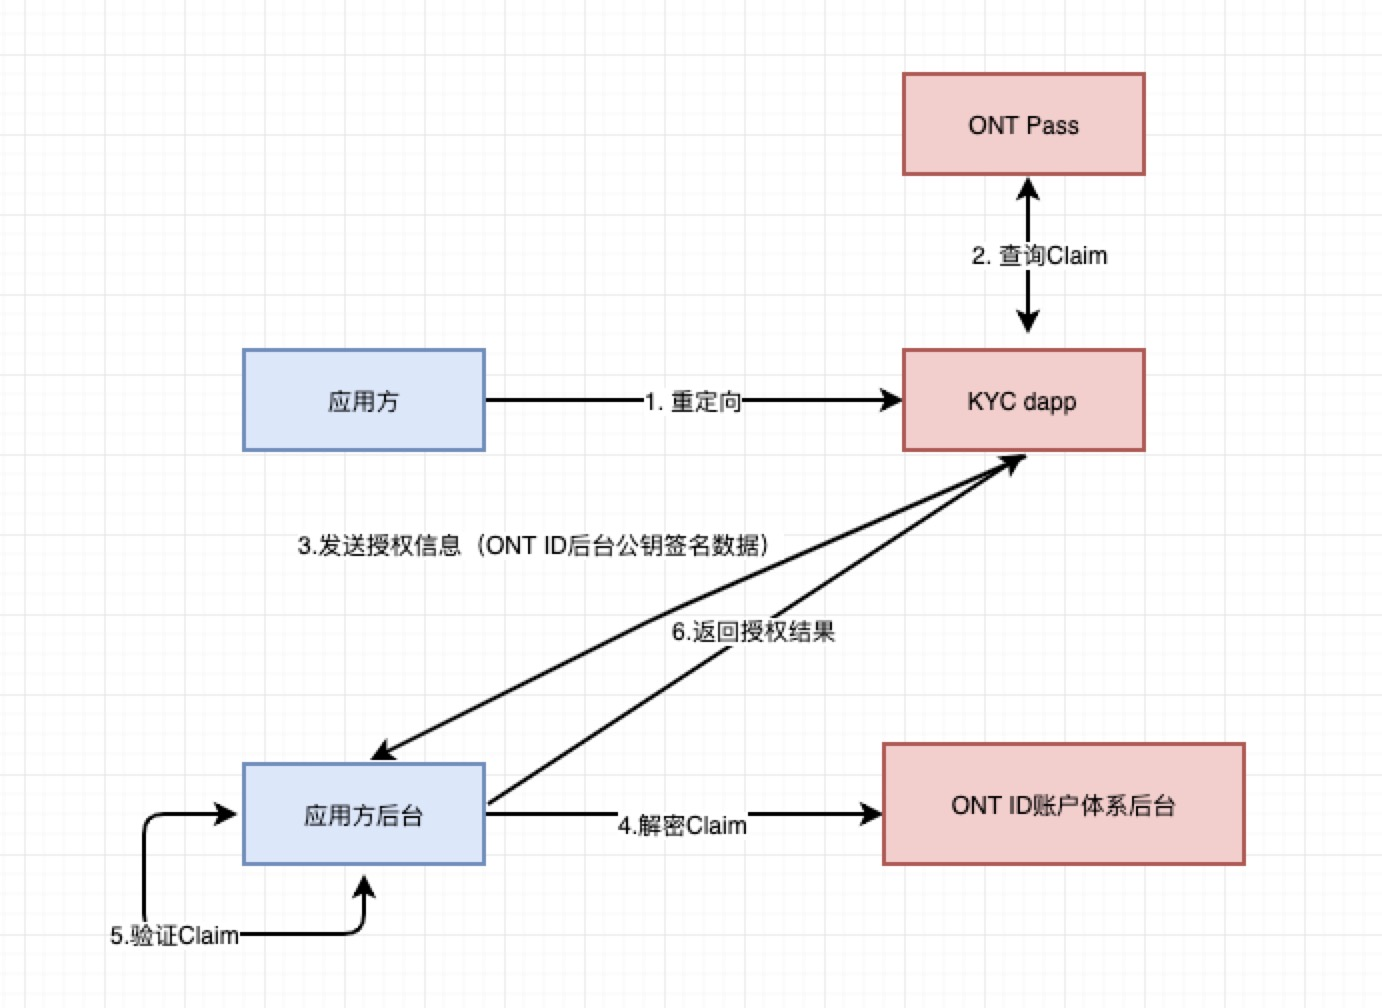
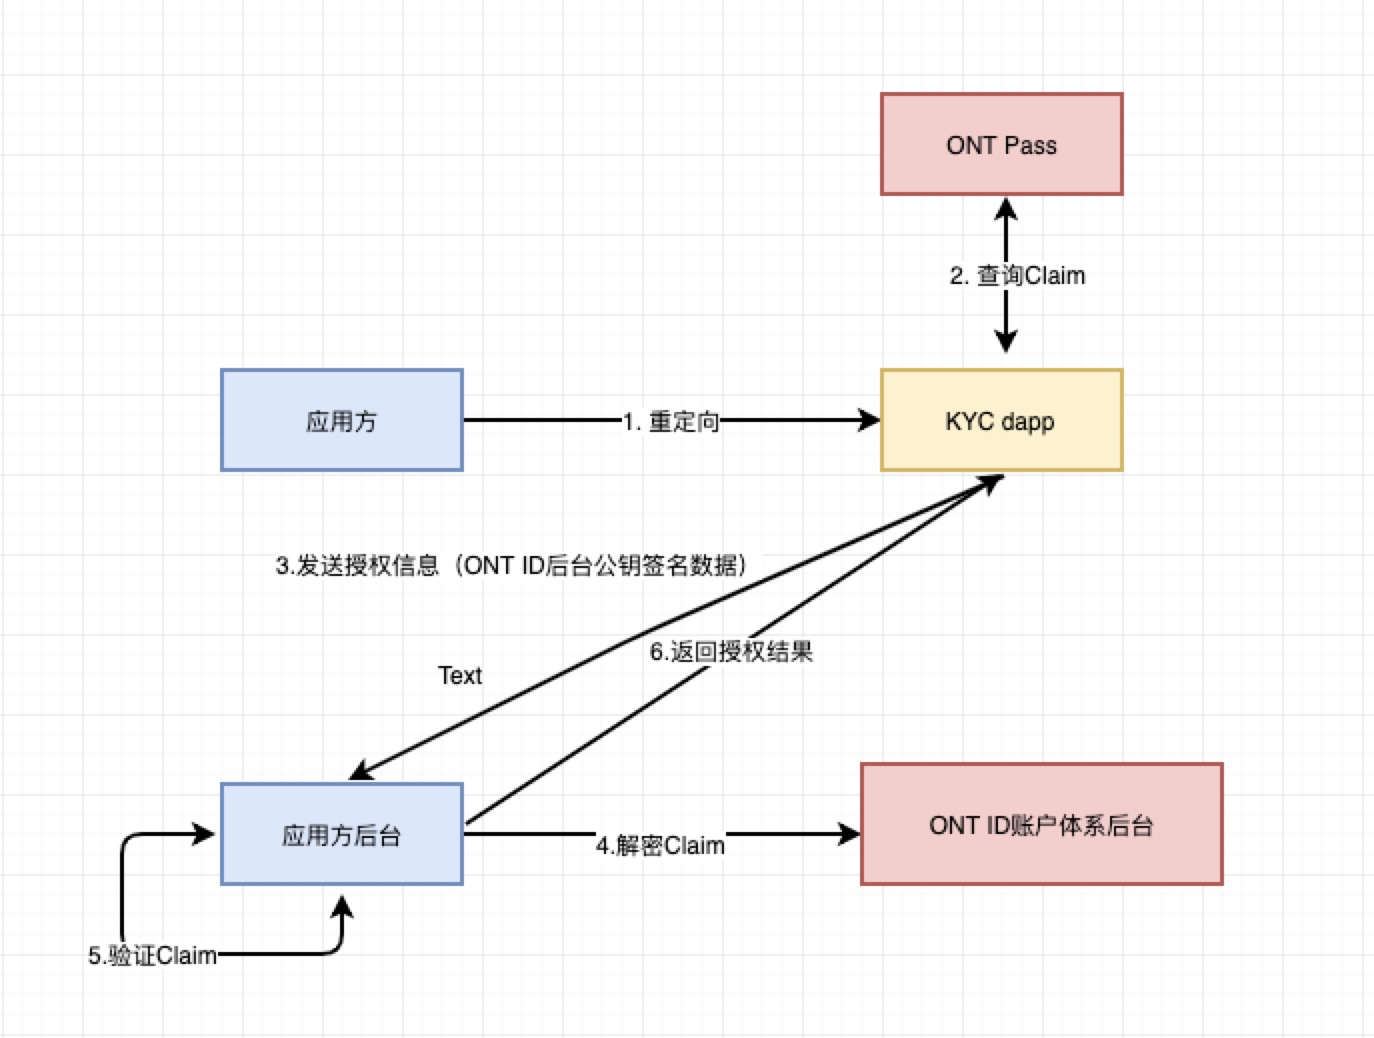
update doc ;

Changed region(s): [[0.0611, 0.0615, 0.917, 0.9534], [0.6419, 0.7073, 0.8865, 0.7381]]

diff --git a/pro-website-docs/docs-cn/ontpass/ontid-kyc-h5.md b/pro-website-docs/docs-cn/ontpass/ontid-kyc-h5.md
@@ -24,11 +24,9 @@
 
 3. KYC dapp调用ONT ID后端接口获取注册ONTID的交易，上传认证信息到ONT Pass（ONT Pass在审核通过后发送上链交易）；
 
-4. 提交[认证请求](http://pro-docs.ont.io/#/docs-cn/ontpass/overview)到ONT Pass。这个请求需要认证需求方的签名，即用户的签名，也就需要用户输入密码。KYC dapp将获取签名的请求数据，用ONT ID后台提供的公钥加密，再发送给应用方后台，应用方后台然后附加上HMAC校验，转发给ONT ID账户体系后台。
+4. 提交[认证请求](http://pro-docs.ont.io/#/docs-cn/ontpass/overview)到ONT Pass。这个请求需要认证需求方的签名，即应用方的签名。KYC dapp发送相关数据给应用方后台，应用方后台添加上自己签名后，提交认证请求到ONT Pass，返回结果给KYC dapp。
 
-5.  KYC dapp先将获取到的签名合并到请求数据中，发送给ONT Pass，触发认证请求。
-
-6. 等待审核通过（测试环境一般10分钟内）
+5.  KYC dapp显示等待审核页面。
 
    ![cert](https://raw.githubusercontent.com/ontio/documentation/master/pro-website-docs/assets/kyc/certification.jpg)
 
@@ -36,25 +34,37 @@
 
 1. 应用方在需要用户授权的地方，通过url跳转到KYC dapp h5（在url后附上参数，通过用户ONT ID查询到加密后claim），显示授权页面。
 
-2. 用户确认后，输入密码，发送授权信息到应用方后台（请求数据使用ONT ID 账户体系后台公钥加密），应用方后台转发请求数据到ONT ID后台，返回解密后的Claim。
+2. 用户确认后，输入密码，发送授权信息到应用方后台（请求数据使用ONT ID 账户体系后台公钥加密），应用方后台转发请求数据到ONT ID后台，得到解密后的Claim。
 
-3. 应用方验证Cliam。返回给KYC dapp验证结果，即授权结果。
+3. 应用方验证Claim，然后把验证结果，即授权结果，返回给KYC dapp，KYC dapp根据授权结果显示认证成功或失败。
 
    ![auth](https://raw.githubusercontent.com/ontio/documentation/master/pro-website-docs/assets/kyc/auth.jpg)
 
 
 ## 3. 应用方对接所需接口和链接
 
+> KYC dapp url后可附带参数控制多语言，默认语言是英文。
+>
+> lang=en 语言为英文
+>
+> lang=zh 语言为中文
+
 ### 3.1 跳转到KYC dapp认证页面
 
 ```
-url：host + /#/certHome?ontid={user's ONT ID}
+url：host + /#/mgmtHome?ontid={ontid}&transmitCallback={transmitCallback}&requestAuthenticationCallback={requestAuthenticationCallback}
 ```
+
+`ontid` User's ONT  ID
+
+`transmitCallback` 应用方后台用于转发请求的回调地址
+
+`requestAuthenticationCallback` 应用方后台用于提交认证请求的回调地址
 
 ### 3.2 跳转到KYC dapp授权页面
 
 ```
-url: host + /#/authHome?userOntid={userOntid}&dappOntid={dappOntid}&dappName={dappName}&dappUrl={dappUrl}&callback={callback}&dappPk={dappPk}
+url: host + /#/authHome?userOntid={userOntid}&dappOntid={dappOntid}&dappName={dappName}&dappUrl={dappUrl}&callback={callback}
 ```
 
 `userOntid` User's ONT ID
@@ -67,77 +77,52 @@ url: host + /#/authHome?userOntid={userOntid}&dappOntid={dappOntid}&dappName={da
 
 `callback` dapp后台用来接收授权信息的回调地址。
 
-`dappPk` 为保证传输用户信息的安全性，使用dapp的公钥和ECIES加密算法，对用户信息加密，把得到的密文信息传输给dapp后台，dapp后台用私钥解密出明文信息。
+## 4. 应用方需要提供的接口
 
-### 3.3 授权时KYC dapp h5 发送用户Claim到应用方后台回调
+### 4.1 转发KYC dapp的请求
 
-我们约定在授权时，应用方提供自己接受处理授权信息的回调地址。请求的参数和返回结果我们统一约定如下：
+ONT ID后台的访问需要通过HMAC校验。KYC dapp不能直接访问ONT ID后台接口，所以需要通过应用方提供的接口转发请求。
 
-#### POST
-
-```
-url	: 由dapp传给KYC dapp
-```
-
-### REQUEST
-
-| Field_Name  | Required | Format | Description             |
-| ----------- | -------- | ------ | ----------------------- |
-| nounce      | yes      | string | 需保证唯一性            |
-| owner_claim | yes      | string | 用户Claim 的JSON string |
-| owner_ontid | Yes      | String | 用户的ONT ID            |
-
-### RESPONSE
-
-| Field_Name | Format  | Description                                      |
-| ---------- | ------- | ------------------------------------------------ |
-| version    | String  | 版本号，目前是1.0。                              |
-| action     | String  | 固定值：RequestAuthorizationCallback。           |
-| desc       | String  | 错误信息。成功即SUCCESS，其他即错误信息          |
-| result     | boolean | true：验证授权信息成功； false：验证授权信息失败 |
-
-### 3.4 认证时转发获取签名请求
-
-认证时，用户发送获取签名的请求，应用方直接转发请求到ONT ID账户体系后台。需要ONT ID后台提供接收该请求的 接口。
+应用方收到请求后，转发请求到ONT ID后台。需要对转发请求做HMAC处理。转发的地址是参数中的targetUrl。
 
 ### POST
 
 ```
-url: 由应用方传给KYC dapp
+url: 由应用方传给KYC dapp(比如http://host+ /transmitRequest)
 ```
 
 ### REQUEST
 
-| Field_Name | Required | Format | Description                                                  |
-| ---------- | -------- | ------ | ------------------------------------------------------------ |
-| nounce     | yes      | string | 需保证唯一性                                                 |
-| message    | yes      | string | 使用ONT ID后台公钥加密的请求数据。格式是 “.”分隔的字符串。解密后内容为：{auth_id: 'xxxx', password: ''} |
+| Field_Name | Required | Format | Description                            |
+| ---------- | -------- | ------ | -------------------------------------- |
+| message    | yes      | string | 需要转发的接口（ONT ID后台提供的接口） |
+| data       | Yes      | String | 使用RSA/AES加密后的参数                |
 
 ### RESPONSE
 
-| Field_Name | Format | Description                                |
-| ---------- | ------ | ------------------------------------------ |
-| version    | String | 版本号，目前是1.0。                        |
-| action     | String | 固定值：RequestAuthorizationCallback。     |
-| desc       | String | 错误信息。成功即SUCCESS，其他即错误信息    |
-| result     | String | ONT  ID 使用用户私钥对解密出的数据做的签名 |
+| Field_Name | Format | Description                             |
+| ---------- | ------ | --------------------------------------- |
+| version    | String | 版本号，目前是1.0。                     |
+| action     | String | 固定值：TransmitRequest。               |
+| desc       | String | 错误信息。成功即SUCCESS，其他即错误信息 |
+| result     | String | ONT ID后台返回的结果                    |
 
-### 3.5 授权时转发授权信息
+### 4.2 处理授权请求回调
 
 授权时，用户发送授权信息（使用ONT ID后台公钥加密的）给应用方后台。应用方转发给ONT ID后台解密，得到Claim，对Claim验证，验证成功，则授权成功。返回授权结果给KYC dapp。
 
 ### POST
 
 ```
-url: 由应用方传给KYC dapp
+url: 由应用方传给KYC dapp(比如http://host + /handleAuth)
 ```
 
 ### REQUEST
 
 | Field_Name | Required | Format | Description                                                  |
 | ---------- | -------- | ------ | ------------------------------------------------------------ |
-| nounce     | yes      | string | 需保证唯一性                                                 |
-| message    | yes      | string | 使用ONT ID后台公钥加密的请求数据。格式是 “.”分隔的字符串。解密后内容为：{enc_claim: 'xxxx', password: ''} |
+| targetUrl  | yes      | String | ONT ID 后台用来解密数据的接口                                |
+| data       | yes      | string | 使用ONT ID后台公钥加密的请求数据。格式是 “.”分隔的字符串。解密后内容为：{enc_claim: 'xxxx', password: ''} |
 
 ### RESPONSE
 
@@ -147,3 +132,121 @@ url: 由应用方传给KYC dapp
 | action     | String | 固定值：RequestAuthorizationCallback。  |
 | desc       | String | 错误信息。成功即SUCCESS，其他即错误信息 |
 | result     | String | 应用方后台验证授权Claim的结果。         |
+
+### 4.3 应用方提交认证请求
+
+> 目前测试环境，由KYC dapp提交认证请求；生产环境由应用方后台提交认证请求。
+
+应用方后台对认证数据签名，并发送认证请求到ONT Pass。
+
+### POST
+
+由应用方传递给KYC dapp.例如：
+
+```
+https://host + /sendAuthenticationRequestCallback
+```
+
+### REQUEST
+
+| Field_Name | Required | Format | Description |
+| ---------- | -------- | ------ | ----------- |
+| auth_id    | yes      | String | 认证的id    |
+
+### RESPONSE
+
+| Field_Name | Format | Description                                 |
+| ---------- | ------ | ------------------------------------------- |
+| version    | String | 版本号，目前是1.0。                         |
+| action     | String | 固定值：RequestAuthenticationCallback       |
+| desc       | String | 错误信息。成功即SUCCESS，其他即错误信息     |
+| result     | String | 提交的结果。true：提交成功；false：提交失败 |
+
+KYC dapp发送给应用方后台的数据如下：
+
+```
+{
+    auth_id: '' // 代表一次认证的唯一id
+}
+```
+
+应用方后台构造数据如下：
+
+```
+{
+    auth_id: '',
+    app_ontid: ''
+}
+```
+
+应用方对构造的数据签名，并将得到的签名添加到上一步构造的数据中，如下：
+
+```
+{
+    auth_id: '',
+    app_ontid: '',
+    app_signature: ''
+}
+```
+
+应用方后台发送上面的数据到ONT Pass，提交认证请求。请求具体内容见[文档](https://documenter.getpostman.com/view/4781757/RznFoHaC#5951d0a6-66a9-4234-b8a5-63e32b3189ec)。返回给KYC dapp结果。
+
+## 5. ONT ID后台需要提供的接口
+
+> 注意：ONT ID接口接收的参数都是RSA/AES加密的。以下为接口说明中参数为解密后的参数。
+
+### 5.1 获取注册ONTID的交易
+
+通过ONT ID 获取ONT ID交易内容
+
+#### POST
+
+```
+url: /api/v1/ontid/gettx/register/ontid
+```
+
+### REQUEST
+
+| Field_Name | Required | Format | Description  |
+| ---------- | -------- | ------ | ------------ |
+| ontid      | yes      | string | 用户的ONT ID |
+
+
+### RESPONS
+
+| Field_Name | Format | Description                             |
+| ---------- | ------ | --------------------------------------- |
+| version    | String | 版本号，目前是1.0。                     |
+| action     | String | 固定值：getTx。                         |
+| error      | int    | 错误码                                  |
+| desc       | String | 错误信息。成功即SUCCESS，其他即错误信息 |
+| result     | String | 交易内容                                |
+
+### 5.2 解密Claim
+
+通过Onid和密码解密claim
+
+#### POST
+
+```
+url: /api/v1/ontid/decrypt/claim
+```
+
+### REQUEST
+
+| Field_Name | Required | Format                          | Description                                                 |
+| ---------- | -------- | ------------------------------- | ----------------------------------------------------------- |
+| ontid      | yes      | string 20-255 characters Length | ontid（例如："did:ont:AcrgWfbSPxMR1BNxtenRCCGpspamMWhLuL"） |
+| password   | yes      | string 20-255 characters Length | 密码                                                        |
+| message    | yes      | JSONArray 3 Length              | 加密后的数据                                                |
+
+
+### RESPONSE
+
+| Field_Name | Format | Description                             |
+| ---------- | ------ | --------------------------------------- |
+| version    | String | 版本号，目前是1.0。                     |
+| action     | String | 固定值：decrypt。                       |
+| error      | int    | 错误码                                  |
+| desc       | String | 错误信息。成功即SUCCESS，其他即错误信息 |
+| result     | String | 解密后的内容                            |
